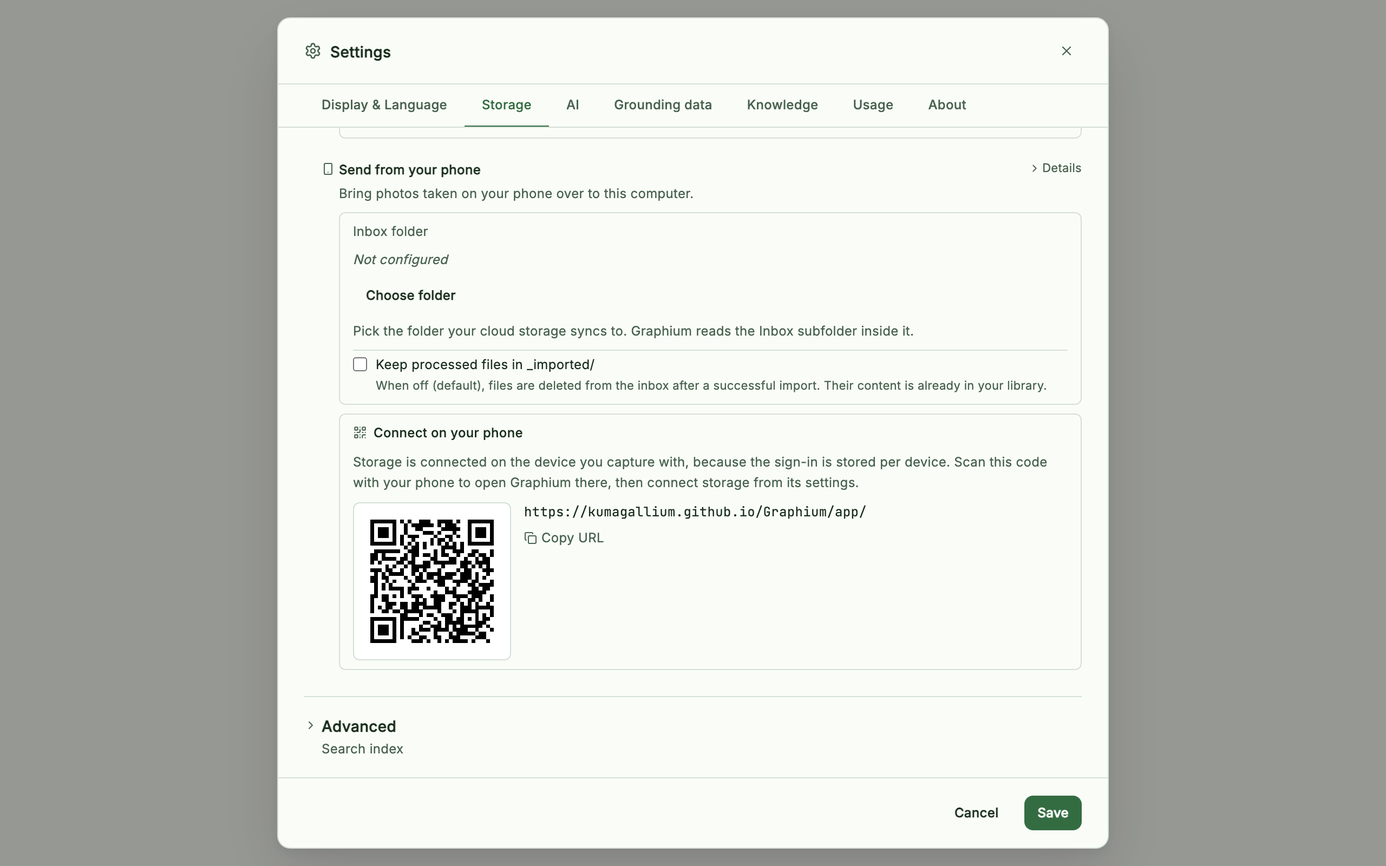
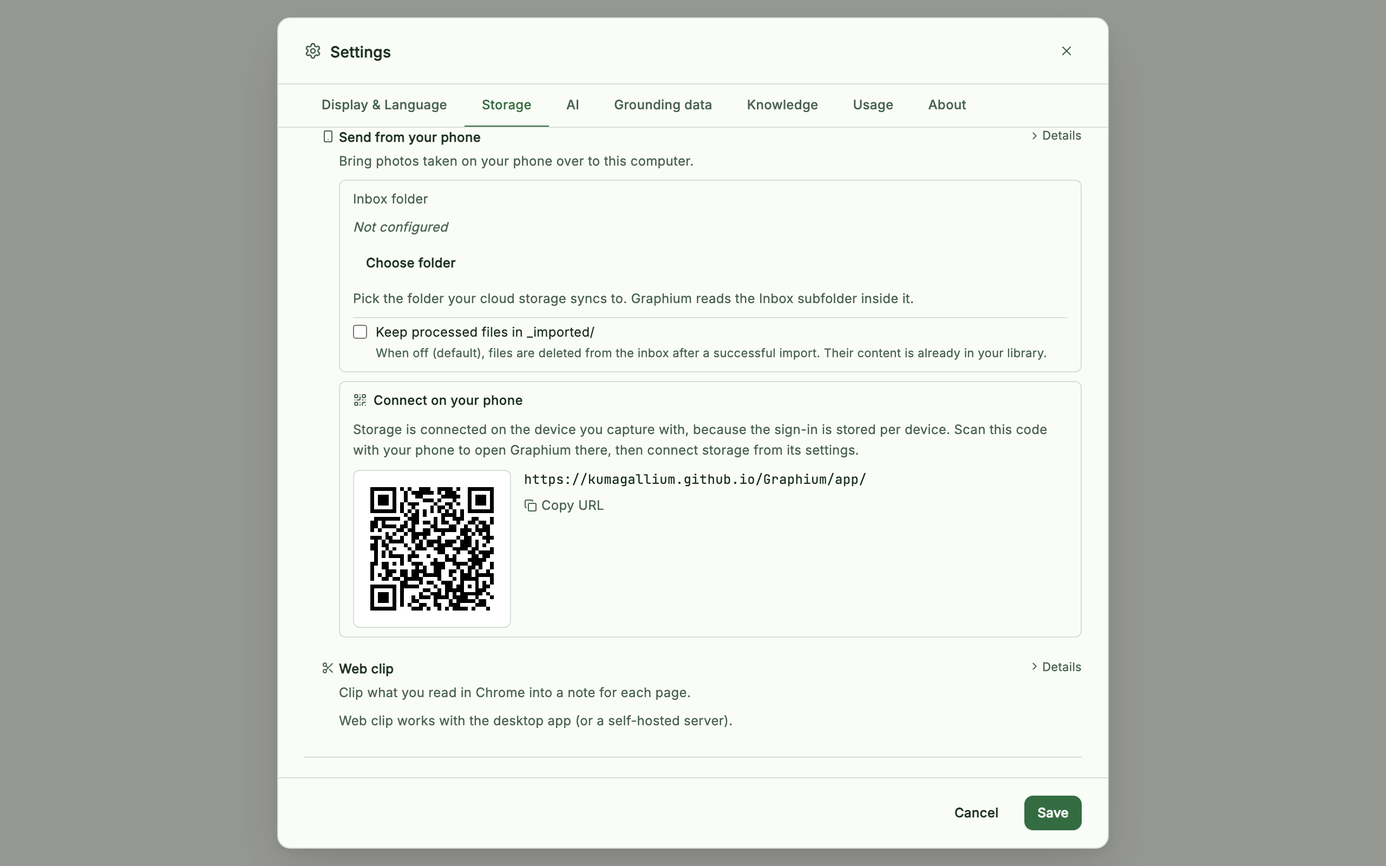
fix(settings): move phone capture and web clip out of "Share with other people"
Sending from your own phone or Chrome is not sharing with people. The
Storage tab gets a "Send from your phone or browser" group above the
sharing group, which keeps your name and team sharing.

- manual (en / ja), extension strings, README, privacy page and
  ARCHITECTURE follow the new path; extension version 0.1.1 for the
  next store upload
- re-took settings-storage, mobile-upload-settings and
  settings-shared-folders

Changed region(s): [[0.2188, 0.1562, 0.7812, 0.875], [0.75, 0.75, 0.7812, 0.7812], [0.75, 0.1875, 0.7812, 0.2188]]

diff --git a/src/features/settings/modal.tsx b/src/features/settings/modal.tsx
@@ -2261,8 +2261,8 @@ export function SettingsModal({ isOpen, onClose, initialTab, initialSection, wik
         )}
 
         {/* ── ストレージタブ ──
-         *  上から「自分のノートがどこにあるか」「取り出し方」、その下に人と共有する
-         *  ための設定、一番下に索引などの道具。初めて開いた人が最初に知りたいのは
+         *  上から「自分のノートがどこにあるか」「取り出し方」、その下にスマホやブラウザから
+         *  送る口と、人と共有するための設定、一番下に索引などの道具。初めて開いた人が最初に知りたいのは
          *  置き場所と取り出し方なので、そこだけ畳まずに出す。 */}
         {tab === "storage" && (
           <div className="space-y-6">
@@ -2433,6 +2433,102 @@ export function SettingsModal({ isOpen, onClose, initialTab, initialSection, wik
                 </p>
               )}
             </SettingSection>
+
+            {/* ── スマホやブラウザから送る ──
+             *  自分のスマホ・自分の Chrome から、この Graphium へ取り込む口。
+             *  人との共有ではないので「人と共有する」とは分ける。一人で使う人も
+             *  触るので、共有より上に置く。 */}
+            <SettingsGroup
+              storageKey="storage-send-in"
+              title={t("settings.group.sendIn.title")}
+              summary={t("settings.group.sendIn.summary")}
+            >
+              {/* モバイル送信 — デスクトップの役割は**受け取り**（同期フォルダを
+                  読む）だけ。だからここにあるのは受信フォルダの指定と、スマホで開く
+                  ための QR。OAuth 接続はここに置かない: トークンは端末ごとの
+                  localStorage なのでデスクトップで接続してもスマホには効かず、しかも
+                  GIS の認可は window.open を使うため Tauri の WebView では必ず失敗する。 */}
+              <SettingSection
+                icon={Smartphone}
+                title={t("settings.mobilePush.title")}
+                summary={t("settings.mobilePush.summary")}
+                details={<p>{t("settings.mobilePush.help")}</p>}
+              >
+                {/* 受信フォルダ（<root>/Inbox/ の親）— 共有フォルダのピッカーと同じ様式。
+                    受信箱ビューのフォルダ設定メニューと同じ localStorage を読み書きする。
+                    Tauri 専用（web にはフォルダを列挙する手段が無い）。 */}
+                {isTauri() ? (
+                  <div className="rounded-md border border-border bg-background px-3 py-2 space-y-2 mb-2">
+                    <div className="text-xs text-muted-foreground">
+                      {t("settings.mobilePush.inboxRootLabel")}
+                    </div>
+                    {inboxRoot ? (
+                      <div className="text-xs font-mono text-foreground break-all">{inboxRoot}</div>
+                    ) : (
+                      <div className="text-xs text-muted-foreground italic">
+                        {t("settings.shared.notSet")}
+                      </div>
+                    )}
+                    <div className="flex items-center gap-2 flex-wrap">
+                      <Button size="sm" variant="ghost" onClick={handlePickInboxRoot}>
+                        {inboxRoot ? t("settings.shared.change") : t("settings.shared.pick")}
+                      </Button>
+                      {inboxRoot && (
+                        <button
+                          onClick={handleClearInboxRoot}
+                          className="text-xs text-muted-foreground hover:text-foreground flex items-center gap-1"
+                        >
+                          <RotateCcw size={12} />
+                          {t("settings.shared.clear")}
+                        </button>
+                      )}
+                    </div>
+                    {inboxRootError && (
+                      <p className="text-xs text-red-500 flex items-start gap-1">
+                        <AlertCircle size={12} className="mt-0.5 shrink-0" />
+                        <span className="break-all">{inboxRootError}</span>
+                      </p>
+                    )}
+                    <p className="text-xs text-muted-foreground">
+                      {t("settings.mobilePush.inboxRootHelp")}
+                    </p>
+
+                    {/* 取り込み後の後処理（受信箱ビューのフォルダ設定と同じ設定・同じ文言） */}
+                    <label className="pt-1 border-t border-border flex items-start gap-2 cursor-pointer">
+                      <input
+                        type="checkbox"
+                        checked={inboxKeepArchive}
+                        onChange={handleToggleInboxKeepArchive}
+                        className="mt-0.5 accent-primary"
+                      />
+                      <span className="text-xs text-foreground">
+                        <span>{t("mobile.keepArchive")}</span>
+                        <span className="block text-[11px] text-muted-foreground mt-0.5">
+                          {t("mobile.keepArchiveHint")}
+                        </span>
+                      </span>
+                    </label>
+                  </div>
+                ) : (
+                  <p className="text-xs text-muted-foreground mb-2">
+                    {t("settings.mobilePush.inboxRootDesktopOnly")}
+                  </p>
+                )}
+
+                {/* 接続はスマホ側で — QR + URL（接続ボタンは意図的に置かない） */}
+                <MobileConnectQrCard url={mobileAppUrl} />
+              </SettingSection>
+
+              {/* Web クリップ — ブラウザ拡張機能に貼るペアリングコード（sidecar の /api/clip） */}
+              <SettingSection
+                icon={Scissors}
+                title={t("webClip.settings.title")}
+                summary={t("webClip.settings.summary")}
+                details={<p>{t("webClip.settings.help")}</p>}
+              >
+                <WebClipSettings />
+              </SettingSection>
+            </SettingsGroup>
 
             {/* ── 人と共有する ──
              *  一人で使う限り触らない設定なので既定で畳む。畳んだ見出しの下に
@@ -2681,92 +2777,6 @@ export function SettingsModal({ isOpen, onClose, initialTab, initialSection, wik
                   summary={t("settings.shared.desktopOnly")}
                 />
               )}
-
-              {/* モバイル送信 — デスクトップの役割は**受け取り**（同期フォルダを
-                  読む）だけ。だからここにあるのは受信フォルダの指定と、スマホで開く
-                  ための QR。OAuth 接続はここに置かない: トークンは端末ごとの
-                  localStorage なのでデスクトップで接続してもスマホには効かず、しかも
-                  GIS の認可は window.open を使うため Tauri の WebView では必ず失敗する。 */}
-              <SettingSection
-                icon={Smartphone}
-                title={t("settings.mobilePush.title")}
-                summary={t("settings.mobilePush.summary")}
-                details={<p>{t("settings.mobilePush.help")}</p>}
-              >
-                {/* 受信フォルダ（<root>/Inbox/ の親）— 共有フォルダのピッカーと同じ様式。
-                    受信箱ビューのフォルダ設定メニューと同じ localStorage を読み書きする。
-                    Tauri 専用（web にはフォルダを列挙する手段が無い）。 */}
-                {isTauri() ? (
-                  <div className="rounded-md border border-border bg-background px-3 py-2 space-y-2 mb-2">
-                    <div className="text-xs text-muted-foreground">
-                      {t("settings.mobilePush.inboxRootLabel")}
-                    </div>
-                    {inboxRoot ? (
-                      <div className="text-xs font-mono text-foreground break-all">{inboxRoot}</div>
-                    ) : (
-                      <div className="text-xs text-muted-foreground italic">
-                        {t("settings.shared.notSet")}
-                      </div>
-                    )}
-                    <div className="flex items-center gap-2 flex-wrap">
-                      <Button size="sm" variant="ghost" onClick={handlePickInboxRoot}>
-                        {inboxRoot ? t("settings.shared.change") : t("settings.shared.pick")}
-                      </Button>
-                      {inboxRoot && (
-                        <button
-                          onClick={handleClearInboxRoot}
-                          className="text-xs text-muted-foreground hover:text-foreground flex items-center gap-1"
-                        >
-                          <RotateCcw size={12} />
-                          {t("settings.shared.clear")}
-                        </button>
-                      )}
-                    </div>
-                    {inboxRootError && (
-                      <p className="text-xs text-red-500 flex items-start gap-1">
-                        <AlertCircle size={12} className="mt-0.5 shrink-0" />
-                        <span className="break-all">{inboxRootError}</span>
-                      </p>
-                    )}
-                    <p className="text-xs text-muted-foreground">
-                      {t("settings.mobilePush.inboxRootHelp")}
-                    </p>
-
-                    {/* 取り込み後の後処理（受信箱ビューのフォルダ設定と同じ設定・同じ文言） */}
-                    <label className="pt-1 border-t border-border flex items-start gap-2 cursor-pointer">
-                      <input
-                        type="checkbox"
-                        checked={inboxKeepArchive}
-                        onChange={handleToggleInboxKeepArchive}
-                        className="mt-0.5 accent-primary"
-                      />
-                      <span className="text-xs text-foreground">
-                        <span>{t("mobile.keepArchive")}</span>
-                        <span className="block text-[11px] text-muted-foreground mt-0.5">
-                          {t("mobile.keepArchiveHint")}
-                        </span>
-                      </span>
-                    </label>
-                  </div>
-                ) : (
-                  <p className="text-xs text-muted-foreground mb-2">
-                    {t("settings.mobilePush.inboxRootDesktopOnly")}
-                  </p>
-                )}
-
-                {/* 接続はスマホ側で — QR + URL（接続ボタンは意図的に置かない） */}
-                <MobileConnectQrCard url={mobileAppUrl} />
-              </SettingSection>
-
-              {/* Web クリップ — ブラウザ拡張機能に貼るペアリングコード（sidecar の /api/clip） */}
-              <SettingSection
-                icon={Scissors}
-                title={t("webClip.settings.title")}
-                summary={t("webClip.settings.summary")}
-                details={<p>{t("webClip.settings.help")}</p>}
-              >
-                <WebClipSettings />
-              </SettingSection>
             </SettingsGroup>
 
             {/* ── 詳しい設定 ──

diff --git a/public/web-clip-privacy.html b/public/web-clip-privacy.html
@@ -50,7 +50,7 @@
   </table>
 
   <h2>Removing your data</h2>
-  <p>Removing the extension deletes the pairing code and any unsent clips. Clips that already reached Graphium are ordinary memos and notes in Graphium, stored where Graphium stores your notes; delete them there. To disconnect without removing the extension, regenerate the pairing code in Graphium (Settings → Storage → Share with other people → Web clip).</p>
+  <p>Removing the extension deletes the pairing code and any unsent clips. Clips that already reached Graphium are ordinary memos and notes in Graphium, stored where Graphium stores your notes; delete them there. To disconnect without removing the extension, regenerate the pairing code in Graphium (Settings → Storage → Send from your phone or browser → Web clip).</p>
 
   <h2>Changes</h2>
   <p>Changes to this policy are posted on this page and reflected in the “Last updated” date.</p>
@@ -92,7 +92,7 @@
   </table>
 
   <h2>データを消すには</h2>
-  <p>拡張機能を削除すると、ペアリングコードと送れていないクリップも消えます。Graphium に届いたクリップは Graphium の通常のメモとノートになり、Graphium のノートの保存先に置かれます。消すときは Graphium で消してください。拡張機能を残したまま接続だけ切るときは、Graphium の「設定 → ストレージ → 人と共有する → Web クリップ」でコードを作り直します。</p>
+  <p>拡張機能を削除すると、ペアリングコードと送れていないクリップも消えます。Graphium に届いたクリップは Graphium の通常のメモとノートになり、Graphium のノートの保存先に置かれます。消すときは Graphium で消してください。拡張機能を残したまま接続だけ切るときは、Graphium の「設定 → ストレージ → スマホやブラウザから送る → Web クリップ」でコードを作り直します。</p>
 
   <h2>変更</h2>
   <p>このポリシーを変更したときは、このページに掲載し「最終更新日」に反映します。</p>

diff --git a/src/features/settings/mobile-section.test.tsx b/src/features/settings/mobile-section.test.tsx
@@ -82,9 +82,9 @@ async function renderStorageTab() {
       <SettingsModal isOpen onClose={() => {}} initialTab="storage" />
     </LocaleProvider>,
   );
-  // 「スマホから送る」は共有の束（Share with other people）の中にあり、既定では
-  // 畳まれている。一人で使う限り触らない設定なので開いてから中を見る。
-  fireEvent.click(await screen.findByRole("button", { name: /Share with other people/ }));
+  // 「スマホから送る」は「Send from your phone or browser」の束の中にあり、既定では
+  // 畳まれている。開いてから中を見る。
+  fireEvent.click(await screen.findByRole("button", { name: /Send from your phone or browser/ }));
   await screen.findByText("Send from your phone");
   return result;
 }

diff --git a/src/i18n/ja.ts b/src/i18n/ja.ts
@@ -888,7 +888,9 @@ export const ja: Record<string, string> = {
   "settings.section.ai": "AI",
   "settings.section.storage": "ストレージ",
   "settings.group.sharing.title": "人と共有する",
-  "settings.group.sharing.summary": "あなたの名前・チームとの共有・スマホやブラウザから送る",
+  "settings.group.sharing.summary": "あなたの名前・チームとの共有",
+  "settings.group.sendIn.title": "スマホやブラウザから送る",
+  "settings.group.sendIn.summary": "スマホで撮った写真や記録・Chrome の Web クリップ",
   "settings.group.advanced.title": "詳しい設定",
   "settings.group.storageAdvanced.summary": "検索インデックス",
   // ── ローカル保存先（デスクトップ版のみ） ──

diff --git a/src/i18n/en.ts b/src/i18n/en.ts
@@ -888,7 +888,9 @@ export const en: Record<string, string> = {
   "settings.section.ai": "AI",
   "settings.section.storage": "Storage",
   "settings.group.sharing.title": "Share with other people",
-  "settings.group.sharing.summary": "Your name, team sharing, sending from your phone or browser",
+  "settings.group.sharing.summary": "Your name and sharing with your team",
+  "settings.group.sendIn.title": "Send from your phone or browser",
+  "settings.group.sendIn.summary": "Photos and notes from your phone, and web clips from Chrome",
   "settings.group.advanced.title": "Advanced",
   "settings.group.storageAdvanced.summary": "Search index",
   // ── ローカル保存先（デスクトップ版のみ） ──

diff --git a/manual/ja/mobile.md b/manual/ja/mobile.md
@@ -34,7 +34,7 @@
 
 ## スマホの画面
 
-スマホのブラウザで[アプリ](https://kumagallium.github.io/Graphium/app/)を開きます。デスクトップの[設定 → ストレージ → 人と共有する → スマホから送る](/ja/settings)にある QR コードを読み取れば、一発でたどり着けます。スマホでは、Graphium は記録のために作られたホームを表示します。**これまでの記録** に記録したものが並び、画面下部に記録用のバーが固定されます。入口は 6 つ — **書く**・**URL**・**写真**・**動画**・**音声**・**ライブラリ** です。
+スマホのブラウザで[アプリ](https://kumagallium.github.io/Graphium/app/)を開きます。デスクトップの[設定 → ストレージ → スマホやブラウザから送る → スマホから送る](/ja/settings)にある QR コードを読み取れば、一発でたどり着けます。スマホでは、Graphium は記録のために作られたホームを表示します。**これまでの記録** に記録したものが並び、画面下部に記録用のバーが固定されます。入口は 6 つ — **書く**・**URL**・**写真**・**動画**・**音声**・**ライブラリ** です。
 
 ![記録の履歴と記録バーが並ぶスマホの画面](/screenshots/mobile-capture.png)
 
@@ -124,12 +124,12 @@ Graphium はインストール可能な Web アプリ（PWA）です。スマホ
 1. **スマホでストレージを接続する — 一度だけ。** スマホのヘッダーの歯車（またはキューの **ストレージに接続** ボタン）をタップします。**ストレージを選ぶ** のピッカーに **Google Drive** が出ます（OneDrive は **準備中** と表示されます）。自分の Google アカウントでサインインし、Graphium がアクセスできるのは自分が作ったファイルだけです（`drive.file` スコープ）。secret は使いません。歯車の奥の設定シートには接続状態も表示され、**変更** や **切断** ができます。ふだん触る必要のないクライアント ID の上書きは、畳まれた **詳細設定** の中にあります。
 2. **記録して送る。** キューの **送信** をタップすると、自分の Drive の `Graphium/Inbox` フォルダに流れ込みます。転送は TLS を使い、ファイルは*自分が管理する*ストレージに普通のファイルとして置かれます。
 3. **フォルダをデスクトップに同期する。** クラウドのクライアント（たとえば Google ドライブ デスクトップ版）を動かし、そのフォルダをデスクトップのディスク上に存在させます。
-4. **Graphium にその場所を教える。** デスクトップの[設定 → ストレージ](/ja/settings)で **人と共有する** を展開し、**スマホから送る** を開くと **受信フォルダ** のピッカーがあります。クラウドストレージが同期しているフォルダを選ぶと、Graphium はその中の `Inbox` サブフォルダを読みます。同じセクションの **接続はスマホ側で行います** には、そもそもスマホで Graphium を開くための QR コード（**URL をコピー** 付き）があります。
+4. **Graphium にその場所を教える。** デスクトップの[設定 → ストレージ](/ja/settings)で **スマホやブラウザから送る** を展開し、**スマホから送る** を開くと **受信フォルダ** のピッカーがあります。クラウドストレージが同期しているフォルダを選ぶと、Graphium はその中の `Inbox` サブフォルダを読みます。同じセクションの **接続はスマホ側で行います** には、そもそもスマホで Graphium を開くための QR コード（**URL をコピー** 付き）があります。
 5. **取り込む。** ファイルが届くと、デスクトップのサイドバーの **モバイル** に未処理件数が表示されます。開いて 1 件ずつプレビューし、**全部取り込み** か **選択したものを取り込み** を実行します。写真・動画・音声メモは[素材](/ja/materials-and-citations)になり、書いた記録は通常のメモや URL のブックマークになります。スマホの画面上部にある **送り先** <Badge type="tip" text="v0.55.0 (2026-09-04) で追加" /> でフォルダを選んでおくと、届いたものはそのフォルダに入った状態になります（写真・動画・音声・URL は素材として、書いた記録はメモとして）。一覧には、その端末で前に使ったフォルダと、スマホからも同じ保管場所に繋がっている場合はそのフォルダが並びます。**＋ 新しいフォルダ…** でその場で作ることもできます。選んだフォルダは切り替えるまで覚えているので、送るたびに選ぶ必要はありません。重複は自動でスキップされ、トーストが **取り込み・スキップ・失敗** の件数をまとめます。受信箱が空なら **新しいものはありません** と表示されるだけです。
 
 ![デスクトップの Mobile 受信画面。写真のサムネイル、スターターのメモ、Sourdough Hydration, Explained の URL、動画の 4 件が並び、Import selected (0) と Import all ボタンがある。](/screenshots/mobile-inbox.png)
 
-既定では、取り込んだファイルは受信箱から削除されます。中身はすでにライブラリに入っているためです。控えを残したい場合は、**処理済みファイルを _imported/ に残す**（受信フォルダの設定、または 設定 → ストレージ → 人と共有する → スマホから送る）をオンにしてください。
+既定では、取り込んだファイルは受信箱から削除されます。中身はすでにライブラリに入っているためです。控えを残したい場合は、**処理済みファイルを _imported/ に残す**（受信フォルダの設定、または 設定 → ストレージ → スマホやブラウザから送る → スマホから送る）をオンにしてください。
 
 ![設定 → ストレージ のスマホから送るセクション。スマホで Graphium を開くための QR コードが表示されている](/screenshots/mobile-upload-settings.png)
 

diff --git a/manual/mobile.md b/manual/mobile.md
@@ -34,7 +34,7 @@ Other ways in:
 
 ## The phone view
 
-Open [the app](https://kumagallium.github.io/Graphium/app/) in your phone's browser — the QR code in the desktop's [Settings → Storage → Share with other people → Send from your phone](/settings) gets you there in one scan. On a phone, Graphium shows a home built for capture: your capture history under **Captures**, and a capture bar fixed at the bottom with six ways in — **Write**, **URL**, **Photo**, **Video**, **Voice**, and **Library**.
+Open [the app](https://kumagallium.github.io/Graphium/app/) in your phone's browser — the QR code in the desktop's [Settings → Storage → Send from your phone or browser → Send from your phone](/settings) gets you there in one scan. On a phone, Graphium shows a home built for capture: your capture history under **Captures**, and a capture bar fixed at the bottom with six ways in — **Write**, **URL**, **Photo**, **Video**, **Voice**, and **Library**.
 
 ![Mobile capture view with history and the capture bar](/screenshots/mobile-capture.png)
 
@@ -124,12 +124,12 @@ The pipeline, end to end:
 1. **Connect storage on the phone — once.** Tap the gear in the phone header (or the queue's **Connect storage** button). The **Choose storage** picker offers **Google Drive** (OneDrive is listed as **Coming soon**). You sign in with your own Google account; Graphium gets access only to files it creates (`drive.file` scope) and no secret is involved. The settings sheet behind the gear also shows the connection status, lets you **Change** or **Disconnect**, and holds a folded **Advanced** client-ID override that most people never touch.
 2. **Capture and send.** Tap **Send** on the queue and it drains into the `Graphium/Inbox` folder of your own Drive. Transfers use TLS, and the files sit as ordinary files in storage *you* control.
 3. **Sync the folder to your desktop.** Run your cloud client (for example Google Drive for desktop) so that folder exists on the desktop's disk.
-4. **Point Graphium at it.** In the desktop's [Settings → Storage](/settings), expand **Share with other people** and open **Send from your phone** — it has the **Inbox folder** picker: choose the folder your cloud storage syncs to, and Graphium reads the `Inbox` subfolder inside it. The same section shows the QR code under **Connect on your phone** (with **Copy URL**) that opens Graphium on the phone in the first place.
+4. **Point Graphium at it.** In the desktop's [Settings → Storage](/settings), expand **Send from your phone or browser** and open **Send from your phone** — it has the **Inbox folder** picker: choose the folder your cloud storage syncs to, and Graphium reads the `Inbox` subfolder inside it. The same section shows the QR code under **Connect on your phone** (with **Copy URL**) that opens Graphium on the phone in the first place.
 5. **Import.** When files arrive, a **Mobile** entry in the desktop sidebar shows a pending count. Open it to preview each item, then **Import all** or **Import selected**. Photos, videos, and voice notes become [materials](/materials-and-citations); written captures become regular memos and URL bookmarks. Pick a folder under **Send into** <Badge type="tip" text="Added in v0.55.0 (2026-09-04)" /> at the top of the phone screen and what arrives is already in that folder — photos, videos, audio and URLs as materials, and anything you wrote as a memo. The list holds the folders you have used before on that phone, plus the ones in your library if the phone is connected to the same storage; **+ New folder…** creates one on the spot. Your choice is remembered until you change it, so there is nothing to pick each time you send. Duplicates are skipped automatically, a toast summarizes **Imported · skipped · failed**, and an empty inbox simply says **Nothing new**.
 
 ![The desktop Mobile inbox listing four pending captures: a photo thumbnail, a memo about the starter, a bookmark titled Sourdough Hydration, Explained, and a video, with Import selected (0) and Import all buttons.](/screenshots/mobile-inbox.png)
 
-By default, imported files are deleted from the inbox — their content is already in your library. Check **Keep processed files in _imported/** (in the inbox's folder settings, or in Settings → Storage → Share with other people → Send from your phone) if you prefer an archive.
+By default, imported files are deleted from the inbox — their content is already in your library. Check **Keep processed files in _imported/** (in the inbox's folder settings, or in Settings → Storage → Send from your phone or browser → Send from your phone) if you prefer an archive.
 
 ![The Send from your phone section in Settings → Storage, with the QR code that opens Graphium on your phone](/screenshots/mobile-upload-settings.png)
 

diff --git a/manual/ja/settings.md b/manual/ja/settings.md
@@ -37,7 +37,8 @@ Graphium の見た目と読みやすさ。
 |---|---|
 | **ノートの置き場所** | デスクトップ版のみ — ノート・メディア・ナレッジを保存するフォルダを変更します（Dropbox / Drive / OneDrive の同期フォルダを指定すれば、OAuth なしで同期できます）。 |
 | **書き出しとバックアップ** | 全ノートを Markdown ファイルとして、または全ノート・ナレッジ・スキルドキュメントを含む生データの JSON バックアップとしてダウンロードします。 |
-| **人と共有する** | 既定で畳まれているグループで、4 つの設定が入っています。**あなたの名前**（表示名とメール。共有ノートと来歴エントリの author として使われます）、**チームと共有**（デスクトップ版のみ — 共有フォルダ〈研究室の NAS、同期フォルダなど〉と、大きなバイナリ用の Blob フォルダを指定します。**接続テスト** で往復の確認ができます）、**スマホから送る** <Badge type="tip" text="v0.23.1 (2026-07-29) で追加" />（スマホでの記録のデスクトップ側です。スマホで Graphium を開く QR コード、記録を受け取る同期フォルダを指定する **受信フォルダ**、そして **処理済みファイルを `_imported/` に残す** のオプションがあります。[スマホでの記録](/ja/mobile)を参照）、**Web クリップ**（ブラウザで読んだところを Graphium に拾う Chrome 拡張機能のペアリングコード。**コピー** と **コードを作り直す** があります。[Web クリップ](/ja/web-clip)を参照）。 |
+| **スマホやブラウザから送る** | 既定で畳まれているグループで、自分のスマホやブラウザからこの Graphium へ取り込む口が入っています。**スマホから送る** <Badge type="tip" text="v0.23.1 (2026-07-29) で追加" />（スマホでの記録のデスクトップ側です。スマホで Graphium を開く QR コード、記録を受け取る同期フォルダを指定する **受信フォルダ**、そして **処理済みファイルを `_imported/` に残す** のオプションがあります。[スマホでの記録](/ja/mobile)を参照）と **Web クリップ**（ブラウザで読んだところを Graphium に拾う Chrome 拡張機能のペアリングコード。**コピー** と **コードを作り直す** があります。[Web クリップ](/ja/web-clip)を参照）です。 |
+| **人と共有する** | 既定で畳まれているグループで、2 つの設定が入っています。**あなたの名前**（表示名とメール。共有ノートと来歴エントリの author として使われます）と **チームと共有**（デスクトップ版のみ — 共有フォルダ〈研究室の NAS、同期フォルダなど〉と、大きなバイナリ用の Blob フォルダを指定します。**接続テスト** で往復の確認ができます）です。 |
 | **詳しい設定** | 既定で畳まれているグループで、**検索インデックス** <Badge type="tip" text="v0.39.0 (2026-08-17) で追加" /> が入っています。ノート本文・ナレッジ・素材のテキスト（画像の OCR、URL の抜粋、PDF と Word の本文）を全文検索するための、この端末の中の索引です。`⌘K`（Windows/Linux は `Ctrl+K`）の検索と AI チャットの横断検索が使います。索引済みのソース数と断片数が表示され、検索結果がおかしいときは **索引を作り直す** で消して作り直せます。**中身を見る** で索引そのものを開けます。**断片** は索引済みのソース一覧で、開くと「どんな断片に切られたか」と「各断片がどんな語に分割されて索引されたか」（日本語の切れ目）が見え、語を打つと試し検索になります。**語彙** は索引に入っている語の一覧（数字はその語を含む断片の数）で、絞り込めます。ノートのデータには書き込みません。 |
 
 ::: warning

diff --git a/manual/settings.md b/manual/settings.md
@@ -37,7 +37,8 @@ Where your notes live and how they move between devices. Full details in [Storag
 |---|---|
 | **Where your notes are saved** | Desktop only — change the folder where notes, media, and knowledge are stored (point it at a Dropbox/Drive/OneDrive folder to sync without OAuth). |
 | **Export and backup** | Download all notes as Markdown files, or a raw-data JSON backup covering every note, knowledge, and skill document. |
-| **Share with other people** | A collapsed group holding four settings: **Your name** (display name and email, used as the author on shared notes and provenance entries), **Share with your team** (desktop only — pick a shared folder, e.g. lab NAS or synced folder, plus a blob folder for large binaries, with a **Test connection** round-trip check), and **Send from your phone** <Badge type="tip" text="Added in v0.23.1 (2026-07-29)" /> (the desktop half of phone capture: a QR code that opens Graphium on your phone, the **Inbox folder** picker for the synced folder that receives captures, and the **Keep processed files in `_imported/`** option — see [Mobile capture](/mobile)), and **Web clip** (the pairing code for the Chrome extension that clips what you read into Graphium, with **Copy** and **Make a new code** — see [Web clip](/web-clip)). |
+| **Send from your phone or browser** | A collapsed group holding the ways into this Graphium from your own phone and browser: **Send from your phone** <Badge type="tip" text="Added in v0.23.1 (2026-07-29)" /> (the desktop half of phone capture: a QR code that opens Graphium on your phone, the **Inbox folder** picker for the synced folder that receives captures, and the **Keep processed files in `_imported/`** option — see [Mobile capture](/mobile)) and **Web clip** (the pairing code for the Chrome extension that clips what you read into Graphium, with **Copy** and **Make a new code** — see [Web clip](/web-clip)). |
+| **Share with other people** | A collapsed group holding two settings: **Your name** (display name and email, used as the author on shared notes and provenance entries) and **Share with your team** (desktop only — pick a shared folder, e.g. lab NAS or synced folder, plus a blob folder for large binaries, with a **Test connection** round-trip check). |
 | **Advanced** | A collapsed group holding **Search index** <Badge type="tip" text="Added in v0.39.0 (2026-08-17)" /> — the on-device full-text index over note bodies, knowledge pages, and asset text (image OCR, URL excerpts, PDF and Word text) that `⌘K` (`Ctrl+K` on Windows/Linux) search and the AI chat's cross-search use. It shows how many sources and passages are indexed, and **Rebuild index** clears and rebuilds it if results ever look wrong. **Browse contents** opens the index itself: **Passages** lists every indexed source — open one to see the passages it was cut into and the exact terms each passage was indexed under (how a Japanese sentence was segmented) — and typing a word runs a test search; **Vocabulary** lists every term in the index with the number of passages containing it, filterable. It never writes to your notes. |
 
 ::: warning

diff --git a/manual/ja/web-clip.md b/manual/ja/web-clip.md
@@ -22,7 +22,7 @@ Web クリップは[デスクトップ版](/ja/desktop-app)（とセルフホス
 
 この準備は 1 回だけです。つないだ状態は拡張機能に保存されます。
 
-**コードを貼ってつなぐこともできます。** ボタンでつながらないとき（古い版の Graphium やセルフホストのサーバーなど）は、Graphium の **設定 → ストレージ** で **人と共有する** を開き、**Web クリップ** のペアリングコードを **コピー** します。拡張機能の設定の **詳しい設定** に貼って **保存** します。
+**コードを貼ってつなぐこともできます。** ボタンでつながらないとき（古い版の Graphium やセルフホストのサーバーなど）は、Graphium の **設定 → ストレージ** で **スマホやブラウザから送る** を開き、**Web クリップ** のペアリングコードを **コピー** します。拡張機能の設定の **詳しい設定** に貼って **保存** します。
 
 ![設定の Web クリップ。ペアリングコード（最初は伏せてある）と、コピー・コードを作り直す](/screenshots/web-clip-settings.png)
 

diff --git a/manual/web-clip.md b/manual/web-clip.md
@@ -22,7 +22,7 @@ Web clip works with the [desktop app](/desktop-app) (and with a self-hosted serv
 
 You only do this once. The connection is kept in the extension.
 
-**You can also connect by pasting a code.** If the button does not work (an older Graphium, or a self-hosted server), open **Settings → Storage** in Graphium, expand **Share with other people**, and **Copy** the pairing code under **Web clip**. Paste it under **More settings** in the extension's settings and press **Save**.
+**You can also connect by pasting a code.** If the button does not work (an older Graphium, or a self-hosted server), open **Settings → Storage** in Graphium, expand **Send from your phone or browser**, and **Copy** the pairing code under **Web clip**. Paste it under **More settings** in the extension's settings and press **Save**.
 
 ![The Web clip section in Settings: the pairing code, hidden by default, with Copy and Make a new code](/screenshots/web-clip-settings.png)
 
